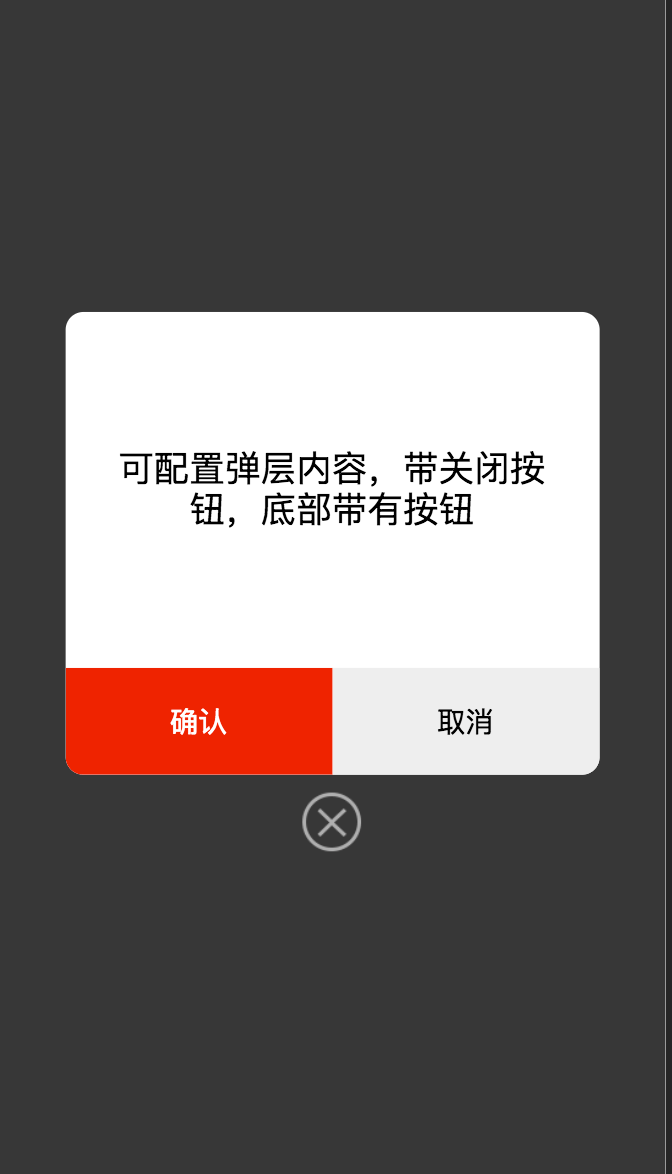
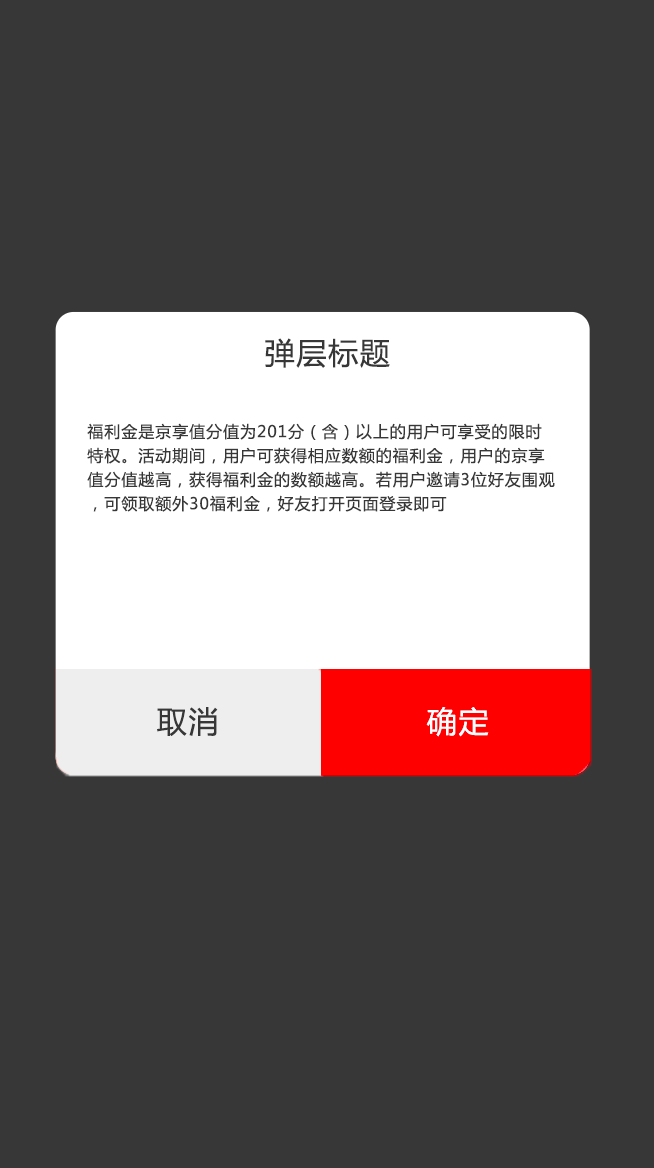
text change

Changed region(s): [[0.0612, 0.2466, 0.9174, 0.7397]]

diff --git a/dist/index.html b/dist/index.html
@@ -7,7 +7,7 @@
     <meta name="generator" content="VuePress 1.5.2">
     
     <meta name="description" content="推动UI标准化">
-    <link rel="preload" href="/fe-baseUI/assets/css/0.styles.943cde94.css" as="style"><link rel="preload" href="/fe-baseUI/assets/js/app.44d48ab6.js" as="script"><link rel="preload" href="/fe-baseUI/assets/js/2.b25ea8b7.js" as="script"><link rel="preload" href="/fe-baseUI/assets/js/5.e5c6ffd7.js" as="script"><link rel="prefetch" href="/fe-baseUI/assets/js/10.e8baffb8.js"><link rel="prefetch" href="/fe-baseUI/assets/js/11.9b0ea0e4.js"><link rel="prefetch" href="/fe-baseUI/assets/js/12.03706301.js"><link rel="prefetch" href="/fe-baseUI/assets/js/13.e490f7f9.js"><link rel="prefetch" href="/fe-baseUI/assets/js/14.3a68409b.js"><link rel="prefetch" href="/fe-baseUI/assets/js/15.79583229.js"><link rel="prefetch" href="/fe-baseUI/assets/js/3.c15b449a.js"><link rel="prefetch" href="/fe-baseUI/assets/js/4.7d5f245c.js"><link rel="prefetch" href="/fe-baseUI/assets/js/6.81200451.js"><link rel="prefetch" href="/fe-baseUI/assets/js/7.de45863b.js"><link rel="prefetch" href="/fe-baseUI/assets/js/8.6149f6c6.js"><link rel="prefetch" href="/fe-baseUI/assets/js/9.9df2da82.js">
+    <link rel="preload" href="/fe-baseUI/assets/css/0.styles.943cde94.css" as="style"><link rel="preload" href="/fe-baseUI/assets/js/app.c82d4546.js" as="script"><link rel="preload" href="/fe-baseUI/assets/js/2.6043a633.js" as="script"><link rel="preload" href="/fe-baseUI/assets/js/5.e5c6ffd7.js" as="script"><link rel="prefetch" href="/fe-baseUI/assets/js/10.7769078b.js"><link rel="prefetch" href="/fe-baseUI/assets/js/11.9b0ea0e4.js"><link rel="prefetch" href="/fe-baseUI/assets/js/12.cf7e6879.js"><link rel="prefetch" href="/fe-baseUI/assets/js/13.e5809b1d.js"><link rel="prefetch" href="/fe-baseUI/assets/js/14.ba0dcfda.js"><link rel="prefetch" href="/fe-baseUI/assets/js/15.0b41c25a.js"><link rel="prefetch" href="/fe-baseUI/assets/js/3.c15b449a.js"><link rel="prefetch" href="/fe-baseUI/assets/js/4.7d5f245c.js"><link rel="prefetch" href="/fe-baseUI/assets/js/6.94188af3.js"><link rel="prefetch" href="/fe-baseUI/assets/js/7.7d3e7b76.js"><link rel="prefetch" href="/fe-baseUI/assets/js/8.6149f6c6.js"><link rel="prefetch" href="/fe-baseUI/assets/js/9.b546176b.js">
     <link rel="stylesheet" href="/fe-baseUI/assets/css/0.styles.943cde94.css">
   </head>
   <body>
@@ -24,6 +24,6 @@
 </a></p></header> <div class="features"><div class="feature"><h2>增长</h2> <p>有质量的增长</p></div><div class="feature"><h2>运营</h2> <p>有温度的运营</p></div></div> <div class="theme-default-content custom content__default"></div> <div class="footer">
     MIT Licensed | Copyright © 2020-基础业务研发部-前端开发组
   </div></main></div><div class="global-ui"></div></div>
-    <script src="/fe-baseUI/assets/js/app.44d48ab6.js" defer></script><script src="/fe-baseUI/assets/js/2.b25ea8b7.js" defer></script><script src="/fe-baseUI/assets/js/5.e5c6ffd7.js" defer></script>
+    <script src="/fe-baseUI/assets/js/app.c82d4546.js" defer></script><script src="/fe-baseUI/assets/js/2.6043a633.js" defer></script><script src="/fe-baseUI/assets/js/5.e5c6ffd7.js" defer></script>
   </body>
 </html>

diff --git a/dist/404.html b/dist/404.html
@@ -7,13 +7,13 @@
     <meta name="generator" content="VuePress 1.5.2">
     
     <meta name="description" content="推动UI标准化">
-    <link rel="preload" href="/fe-baseUI/assets/css/0.styles.943cde94.css" as="style"><link rel="preload" href="/fe-baseUI/assets/js/app.44d48ab6.js" as="script"><link rel="preload" href="/fe-baseUI/assets/js/4.7d5f245c.js" as="script"><link rel="prefetch" href="/fe-baseUI/assets/js/10.e8baffb8.js"><link rel="prefetch" href="/fe-baseUI/assets/js/11.9b0ea0e4.js"><link rel="prefetch" href="/fe-baseUI/assets/js/12.03706301.js"><link rel="prefetch" href="/fe-baseUI/assets/js/13.e490f7f9.js"><link rel="prefetch" href="/fe-baseUI/assets/js/14.3a68409b.js"><link rel="prefetch" href="/fe-baseUI/assets/js/15.79583229.js"><link rel="prefetch" href="/fe-baseUI/assets/js/2.b25ea8b7.js"><link rel="prefetch" href="/fe-baseUI/assets/js/3.c15b449a.js"><link rel="prefetch" href="/fe-baseUI/assets/js/5.e5c6ffd7.js"><link rel="prefetch" href="/fe-baseUI/assets/js/6.81200451.js"><link rel="prefetch" href="/fe-baseUI/assets/js/7.de45863b.js"><link rel="prefetch" href="/fe-baseUI/assets/js/8.6149f6c6.js"><link rel="prefetch" href="/fe-baseUI/assets/js/9.9df2da82.js">
+    <link rel="preload" href="/fe-baseUI/assets/css/0.styles.943cde94.css" as="style"><link rel="preload" href="/fe-baseUI/assets/js/app.c82d4546.js" as="script"><link rel="preload" href="/fe-baseUI/assets/js/4.7d5f245c.js" as="script"><link rel="prefetch" href="/fe-baseUI/assets/js/10.7769078b.js"><link rel="prefetch" href="/fe-baseUI/assets/js/11.9b0ea0e4.js"><link rel="prefetch" href="/fe-baseUI/assets/js/12.cf7e6879.js"><link rel="prefetch" href="/fe-baseUI/assets/js/13.e5809b1d.js"><link rel="prefetch" href="/fe-baseUI/assets/js/14.ba0dcfda.js"><link rel="prefetch" href="/fe-baseUI/assets/js/15.0b41c25a.js"><link rel="prefetch" href="/fe-baseUI/assets/js/2.6043a633.js"><link rel="prefetch" href="/fe-baseUI/assets/js/3.c15b449a.js"><link rel="prefetch" href="/fe-baseUI/assets/js/5.e5c6ffd7.js"><link rel="prefetch" href="/fe-baseUI/assets/js/6.94188af3.js"><link rel="prefetch" href="/fe-baseUI/assets/js/7.7d3e7b76.js"><link rel="prefetch" href="/fe-baseUI/assets/js/8.6149f6c6.js"><link rel="prefetch" href="/fe-baseUI/assets/js/9.b546176b.js">
     <link rel="stylesheet" href="/fe-baseUI/assets/css/0.styles.943cde94.css">
   </head>
   <body>
     <div id="app" data-server-rendered="true"><div class="theme-container"><div class="theme-default-content"><h1>404</h1> <blockquote>How did we get here?</blockquote> <a href="/fe-baseUI/" class="router-link-active">
       Take me home.
     </a></div></div><div class="global-ui"></div></div>
-    <script src="/fe-baseUI/assets/js/app.44d48ab6.js" defer></script><script src="/fe-baseUI/assets/js/4.7d5f245c.js" defer></script>
+    <script src="/fe-baseUI/assets/js/app.c82d4546.js" defer></script><script src="/fe-baseUI/assets/js/4.7d5f245c.js" defer></script>
   </body>
 </html>

diff --git a/docs/Cartain/README.md b/docs/Cartain/README.md
@@ -1,20 +1,17 @@
 
 ## 1、图片形式弹层 
-- 图片弹层形式，图片可动态替换；可以设置是否显示底部关闭按钮
+- 图片弹层形式，图片可替换；可以设置是否显示底部关闭按钮
 <img :src="$withBase('/imgs/curtain_img.png')" width='300'  alt="cartain">
 
 ## 2、普通展示弹层 
-- 弹层内容动态可通过数据动态传入，支持内容较多时弹层内部滚动展示
+- 包括弹层内容和弹层标题，内容可动态配置；同时标题可配置是否显示；中间内容较多时支持滚动展示
 <img :src="$withBase('/imgs/curtain_other.png')" width='300'  alt="cartain">
 
 ## 3、底部确认/取消按钮弹层 
-- 带有底部确认、取消按钮的弹层，可以设置是否展示以及对应的点击回调事件
+- 带有底部确认、取消按钮的弹层，其中标题、中部内容、底部按钮文案、按钮颜色可配置；
 <img :src="$withBase('/imgs/curtain_btn_1.png')" width='300'  alt="cartain">
 
 ## 4、底部确认按钮弹层 
-- 底部带有确认按钮的弹层，可以传入点击回调事件，按钮样式可控
+- 底部带有确认按钮的弹层，其中标题、中部内容、底部按钮文案、按钮颜色可配置；
 <img :src="$withBase('/imgs/curtain_btn_2.png')" width='300'  alt="cartain">
 
-## 5、页面底部弹层 
-- 页面底部弹层，关闭按钮位于右上角，可以设置是否显示关闭按钮
-<img :src="$withBase('/imgs/curtain_bot.png')" width='300'  alt="cartain">

diff --git a/docs/Error/README.md b/docs/Error/README.md
@@ -1,1 +1,3 @@
+- 错误兜底页，页面中图片和下部文案动态可配
+
 <img :src="$withBase('/imgs/error.jpg')" width='300'  alt="error">

diff --git a/docs/Toast/README.md b/docs/Toast/README.md
@@ -1,2 +1,3 @@
+- Toast提示，提示文案内容动态可配
 
 <img :src="$withBase('/imgs/toast.jpg')" width='300'  alt="toast">
